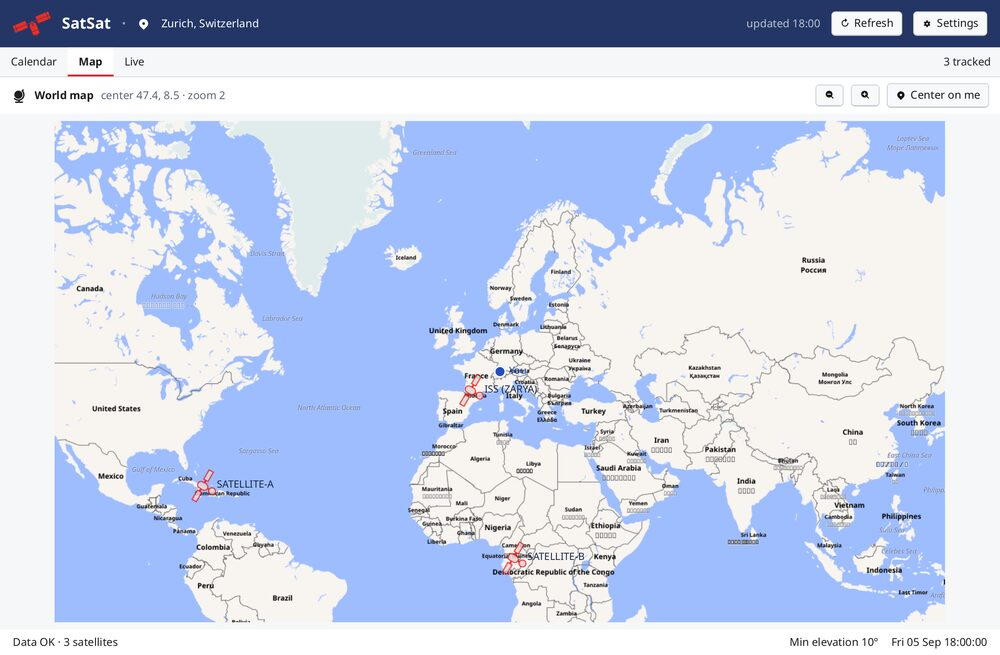
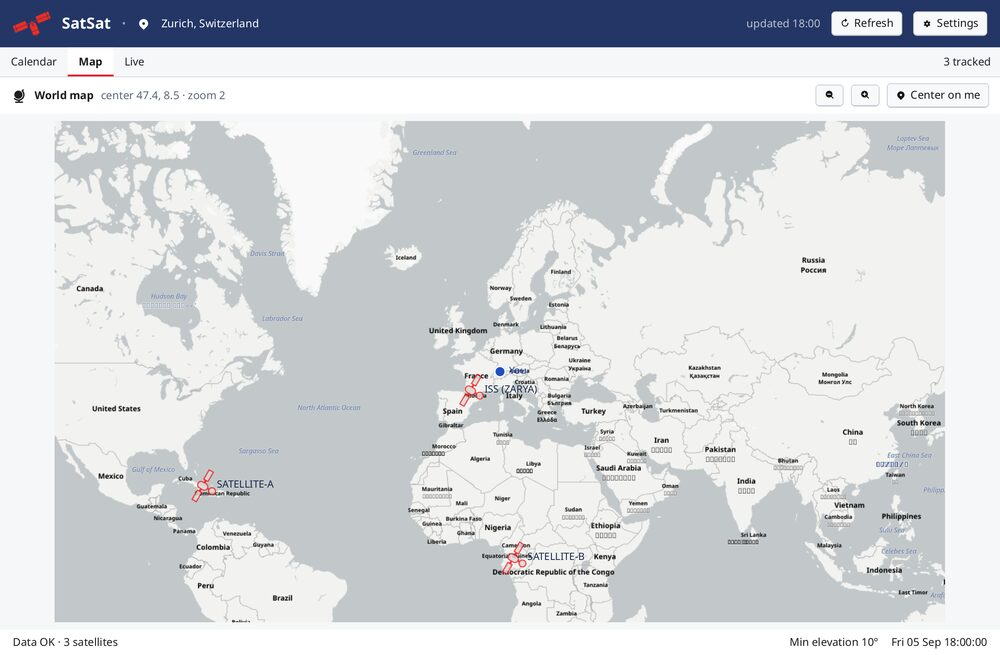
map: use the OpenFreeMap Positron style
Swap the basemap from Liberty to Positron
(https://tiles.openfreemap.org/styles/positron): the muted light-grey style
reads better under the red satellite markers and the blue observer dot.
Refresh the README map screenshot.

diff --git a/worldmap.go b/worldmap.go
@@ -28,7 +28,7 @@ var (
 	mapStyleMu     sync.Mutex
 	cachedStyle    *maprender.MapStyle
 	mapStyleErr    error
-	mapStyleURL    = "https://tiles.openfreemap.org/styles/liberty"
+	mapStyleURL    = "https://tiles.openfreemap.org/styles/positron"
 	mapRenderCalls atomic.Int64 // number of base-map renders (tests)
 )
 
